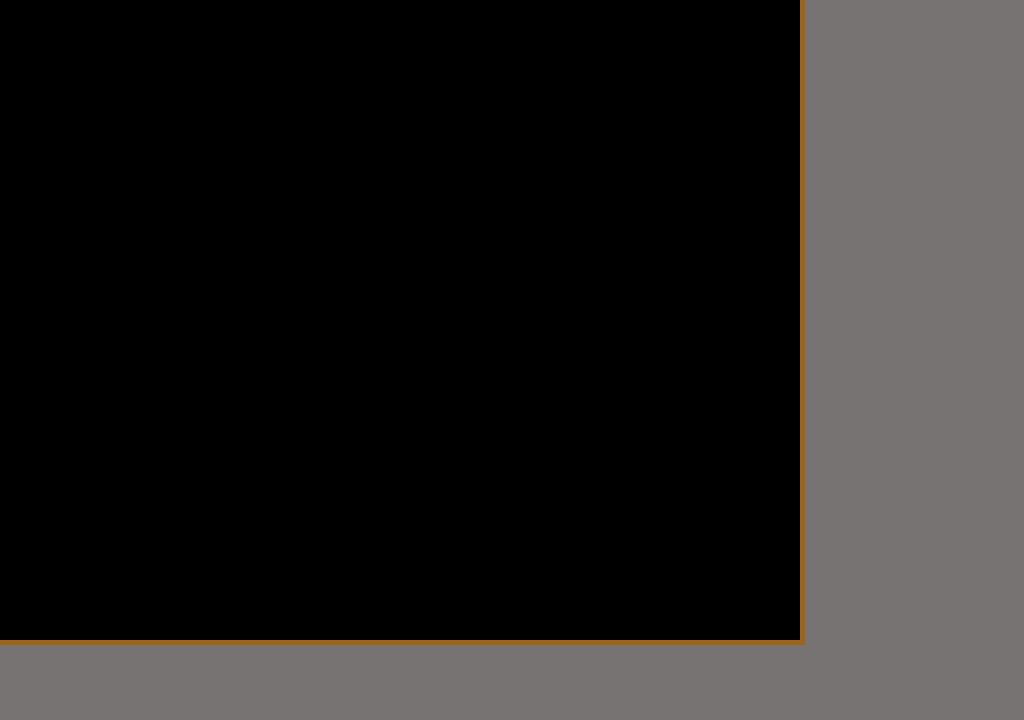
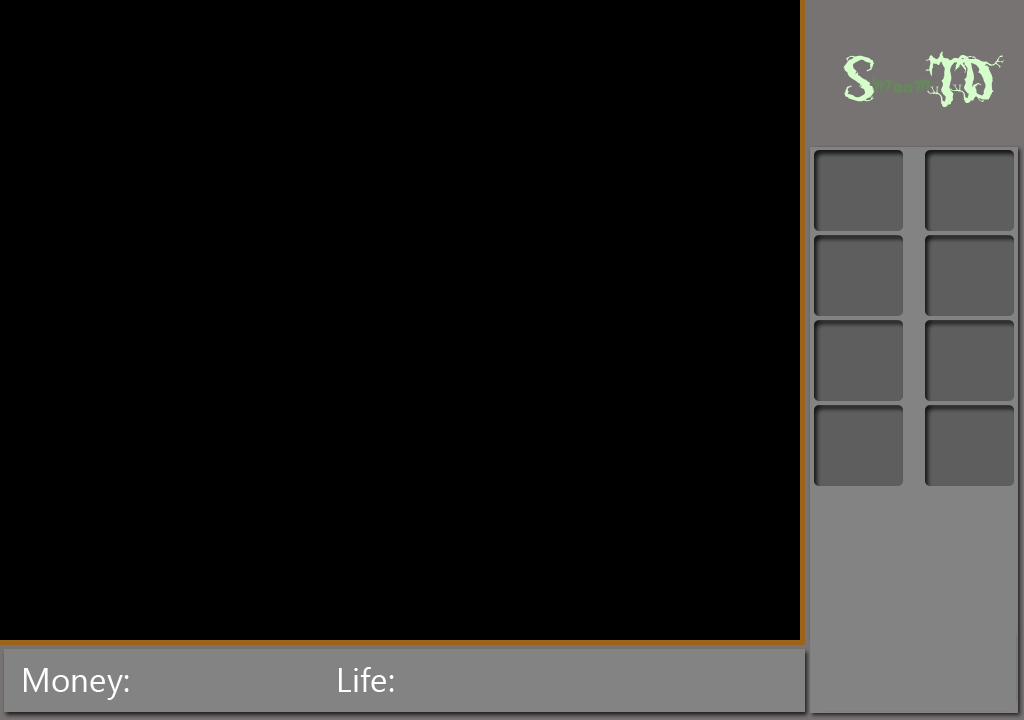
I have added a new background and implemented a button that starts the next wave

diff --git a/src/se/chalmers/tda367/std/gui/GameplayState.java b/src/se/chalmers/tda367/std/gui/GameplayState.java
@@ -1,5 +1,6 @@
 package se.chalmers.tda367.std.gui;
 
+import org.newdawn.slick.Color;
 import org.newdawn.slick.GameContainer;
 import org.newdawn.slick.Graphics;
 import org.newdawn.slick.Image;
@@ -32,12 +33,14 @@ public class GameplayState extends BasicGameState {
 	private Image buildableTile;
 	private Image towerTile;
 	private Image enemyImage;
+	private Image startButton;
 	private int tileScale;
+	private int startX, startY;
+	private boolean overStart = false;
 	private GameBoard board;
 	private Properties properties = Properties.INSTANCE;
 	private Player player;
 	private GameController gameControl;
-	private Image startButton;
 	
 	public GameplayState(int stateID) {
 		this.stateID = stateID;
@@ -55,7 +58,8 @@ public class GameplayState extends BasicGameState {
 		buildableTile = new Image(getResourcePath("/images/gameplay/buildable_tile.png"));
 		towerTile = new Image(getResourcePath("/images/gameplay/tower_tile2.png"));
 		enemyImage = new Image(getResourcePath("/images/gameplay/enemy.png"));
-		startButton = new Image(getResourcePath("/images/main_menu/start_button.png"));
+		startButton = new Image(getResourcePath("/images/gameplay/button_template.png"));
+		
 		
 		tileScale = properties.getTileScale();
 		
@@ -63,22 +67,6 @@ public class GameplayState extends BasicGameState {
 		player = new Player("GustenTestar");
 		gameControl = new GameController(player, board);
 	}
-	
-	//TODO: Remake this system
-    @Override
-    public void mouseClicked(int button,
-            int x,
-            int y,
-            int clickCount){
-    	if(x < tileScale*board.getWidth() && y < tileScale*board.getHeight()) {
-	    	x = x / tileScale;
-			y = y / tileScale;
-			Position p = Position.valueOf(x, y);
-			
-			if(board.getTileAt(p) instanceof IBuildableTile)
-				board.placeTile(new BasicAttackTower(), p);
-    	}
-    }
 	
 	@Override
 	public void render(GameContainer container, StateBasedGame state, Graphics g)
@@ -109,21 +97,40 @@ public class GameplayState extends BasicGameState {
         	Position p = ei.getEnemyPos();
         	enemyImage.draw(p.getX(), p.getY(), tileScale, tileScale);
         }
-        startButton.draw(container.getWidth()-startButton.getWidth(), container.getHeight()-startButton.getHeight());
+        startButton.draw(startX, startY);
+        if(overStart) {
+        	startButton.draw(startX, startY, Color.green);
+        }
 	}
 
 	@Override
 	public void update(GameContainer container, StateBasedGame state, int arg2)
 			throws SlickException {
+		startX = (int)(container.getWidth()*0.796);
+		startY = (int)(container.getHeight()*0.895);
+		
 		Input input = container.getInput();
 		int mouseX = input.getMouseX();
 		int mouseY = input.getMouseY();
 		
-		if((mouseX >= container.getWidth()-startButton.getWidth() && mouseX <= container.getWidth()) && 
-				(mouseY >= container.getHeight()-startButton.getHeight() && mouseY <= container.getHeight())) {
-			if(input.isMouseButtonDown(Input.MOUSE_LEFT_BUTTON)) {
+		if((mouseX >= startX && mouseX <= startX+startButton.getWidth()) && 
+				(mouseY >= startY && mouseY <= startY+startButton.getHeight())) {
+			overStart = true;
+			if(input.isMousePressed(Input.MOUSE_LEFT_BUTTON)) {
 				gameControl.nextWave();
 			}
+		}
+		else if(mouseX < tileScale*board.getWidth() && mouseY < tileScale*board.getHeight()) {
+			if(input.isMousePressed(Input.MOUSE_LEFT_BUTTON)) {
+		    	int x = mouseX / tileScale;
+				int y = mouseY / tileScale;
+				Position p = Position.valueOf(x, y);
+				if(board.getTileAt(p) instanceof IBuildableTile)
+					board.placeTile(new BasicAttackTower(), p);
+			}
+    	}
+		else{
+			overStart = false;
 		}
 	}
 

diff --git a/src/se/chalmers/tda367/std/gui/MainMenuState.java b/src/se/chalmers/tda367/std/gui/MainMenuState.java
@@ -79,14 +79,14 @@ public class MainMenuState extends BasicGameState {
 		if(overStartButton) {
 			startButtonScale = 1.05f;
 			exitButtonScale = 1;
-			if(input.isMouseButtonDown(Input.MOUSE_LEFT_BUTTON)) {
+			if(input.isMousePressed(Input.MOUSE_LEFT_BUTTON)) {
 				state.enterState(STDGame.GAMEPLAYSTATE);
 			}
 		}
 		else if(overExitButton){
 			exitButtonScale = 1.05f;
 			startButtonScale = 1;
-			if(input.isMouseButtonDown(Input.MOUSE_LEFT_BUTTON)) {
+			if(input.isMousePressed(Input.MOUSE_LEFT_BUTTON)) {
 				container.exit();
 			}
 		}
